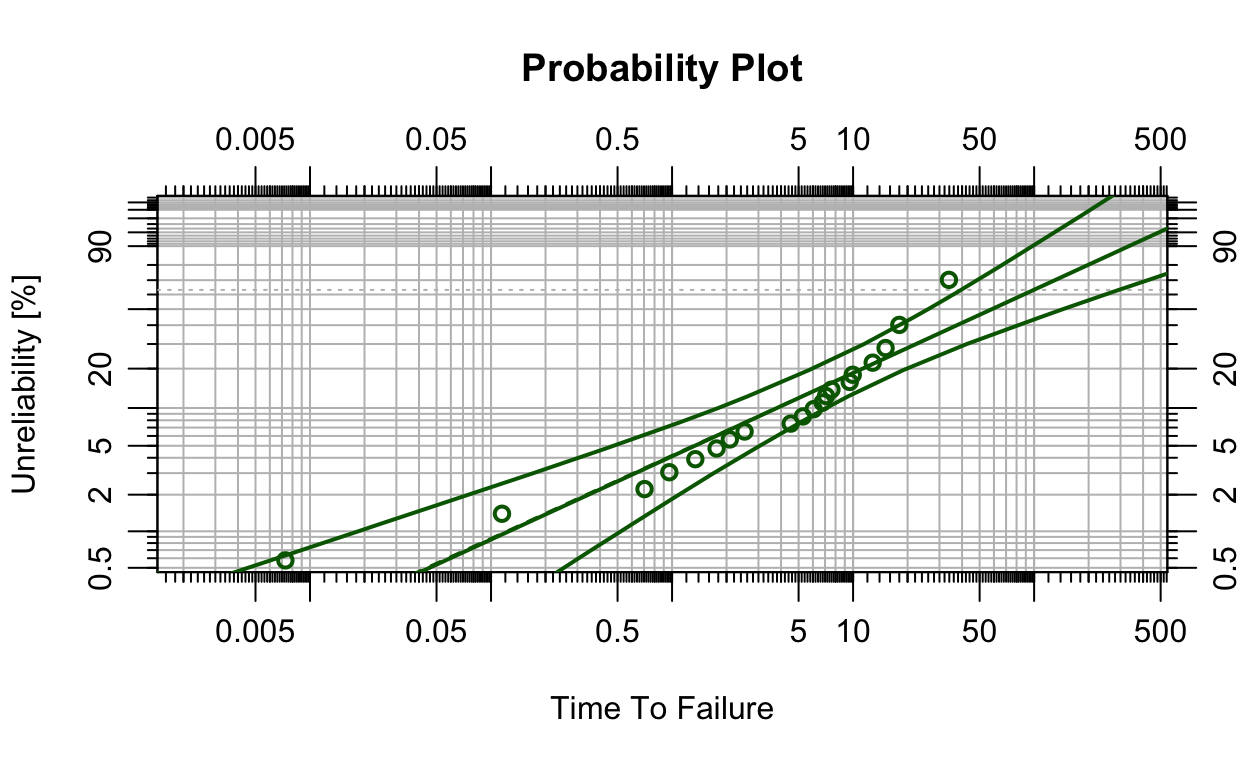
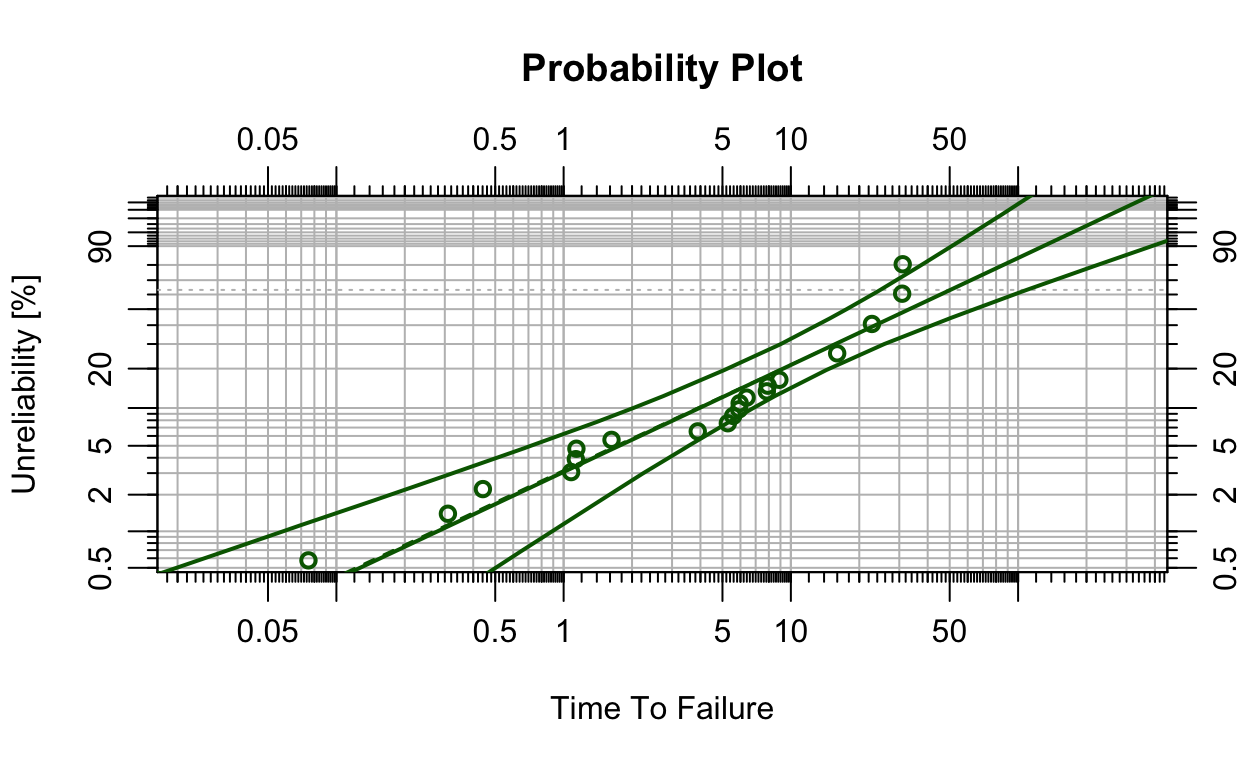
Fix bug with questions

diff --git a/inst/learnr/WeibullR.learnr.html b/inst/learnr/WeibullR.learnr.html
@@ -356,8 +356,9 @@ fit&lt;-MLEw3p(failures, suspensions, bounds=TRUE, show=TRUE)</code></pre>
 <li>Look random (Beta of 1)</li>
 </ul>
 <p>To see this behavior graphically, first create some Weibull data representing 3 different failure modes.</p>
-<pre class="r"><code>data &lt;- data.frame(
-  time = c(rweibull(5, 0.5, 10), rweibull(10, 1, 10), rweibull(5, 2, 10), rweibull(100, 2, 10)),
+<pre class="r"><code>set.seed(123)
+data &lt;- data.frame(
+  time = c(rweibull(5, 0.5, 20), rweibull(10, 1, 10), rweibull(5, 2, 5), rweibull(100, 2, 10)),
   event = c(rep(1, 20), rep(0, 100)),
   failure_mode = c(rep(&quot;A&quot;, 5), rep(&quot;B&quot;, 10), rep(&quot;C&quot;, 5), rep(&quot;&quot;, 100))
   )</code></pre>
@@ -427,6 +428,7 @@ plot_contour(list(obj1, obj2, obj3), CL=0.9)</code></pre>
 <script>if (Tutorial.triggerMathJax) Tutorial.triggerMathJax()</script>
 </div>
 </div>
+<p><strong>Challenge:</strong> rerun the competing failure mode example with a different number in the <code>set.seed</code> function and see if the same results hold true.</p>
 </div>
 <div id="section-wrapping-up" class="section level2">
 <h2>Wrapping Up</h2>
@@ -476,17 +478,17 @@ output$distPlot <- renderPlot({
 </script>
  
 <script type="application/shiny-prerendered" data-context="server">
-learnr:::question_prerendered_chunk(structure(list(type = "learnr_radio", label = "beta", question = structure("Which beta below indicates a wear out failure mode?", html = TRUE, class = c("html", 
-"character")), answers = list(structure(list(id = "lnr_ans_f183ed7", 
+learnr:::question_prerendered_chunk(structure(list(type = "learnr_radio", label = "beta", question = structure("Which beta below may indicate a wear out failure mode?", html = TRUE, class = c("html", 
+"character")), answers = list(structure(list(id = "lnr_ans_c975f4a", 
     option = "1", value = "1", label = structure("1", html = TRUE, class = c("html", 
     "character")), correct = FALSE, message = NULL, type = "literal"), class = c("tutorial_question_answer", 
-"tutorial_quiz_answer")), structure(list(id = "lnr_ans_8e2c89d", 
+"tutorial_quiz_answer")), structure(list(id = "lnr_ans_c822e42", 
     option = "0.5", value = "0.5", label = structure("0.5", html = TRUE, class = c("html", 
     "character")), correct = FALSE, message = NULL, type = "literal"), class = c("tutorial_question_answer", 
-"tutorial_quiz_answer")), structure(list(id = "lnr_ans_a6d81bc", 
+"tutorial_quiz_answer")), structure(list(id = "lnr_ans_ee82682", 
     option = "2", value = "2", label = structure("2", html = TRUE, class = c("html", 
     "character")), correct = TRUE, message = NULL, type = "literal"), class = c("tutorial_question_answer", 
-"tutorial_quiz_answer")), structure(list(id = "lnr_ans_7f28ff3", 
+"tutorial_quiz_answer")), structure(list(id = "lnr_ans_583e128", 
     option = "0", value = "0", label = structure("0", html = TRUE, class = c("html", 
     "character")), correct = FALSE, message = NULL, type = "literal"), class = c("tutorial_question_answer", 
 "tutorial_quiz_answer"))), button_labels = list(submit = structure("<span data-i18n=\"button.questionsubmit\">Submit Answer<\u002fspan>", html = TRUE, class = c("html", 
@@ -496,23 +498,23 @@ learnr:::question_prerendered_chunk(structure(list(type = "learnr_radio", label 
 "character")), incorrect = structure("Incorrect", html = TRUE, class = c("html", 
 "character")), message = NULL, post_message = NULL), ids = list(
     answer = "beta-answer", question = "beta"), loading = NULL, 
-    random_answer_order = TRUE, allow_retry = FALSE, seed = 1391050155.85224, 
+    random_answer_order = TRUE, allow_retry = FALSE, seed = 888752455.586142, 
     options = list()), class = c("learnr_radio", "tutorial_question"
 )), session = session)
 </script>
  
 <script type="application/shiny-prerendered" data-context="server">
-learnr:::question_prerendered_chunk(structure(list(type = "learnr_radio", label = "eta", question = structure("What does eta represent?", html = TRUE, class = c("html", 
-"character")), answers = list(structure(list(id = "lnr_ans_15f029c", 
+learnr:::question_prerendered_chunk(structure(list(type = "learnr_radio", label = "eta", question = structure("What does the parameter eta represent?", html = TRUE, class = c("html", 
+"character")), answers = list(structure(list(id = "lnr_ans_58b13c8", 
     option = "shape parameter", value = "shape parameter", label = structure("shape parameter", html = TRUE, class = c("html", 
     "character")), correct = FALSE, message = NULL, type = "literal"), class = c("tutorial_question_answer", 
-"tutorial_quiz_answer")), structure(list(id = "lnr_ans_95edb66", 
+"tutorial_quiz_answer")), structure(list(id = "lnr_ans_bb7dac5", 
     option = "scale parameter", value = "scale parameter", label = structure("scale parameter", html = TRUE, class = c("html", 
     "character")), correct = TRUE, message = NULL, type = "literal"), class = c("tutorial_question_answer", 
-"tutorial_quiz_answer")), structure(list(id = "lnr_ans_37474dc", 
+"tutorial_quiz_answer")), structure(list(id = "lnr_ans_97c043a", 
     option = "failure rate", value = "failure rate", label = structure("failure rate", html = TRUE, class = c("html", 
     "character")), correct = FALSE, message = NULL, type = "literal"), class = c("tutorial_question_answer", 
-"tutorial_quiz_answer")), structure(list(id = "lnr_ans_50c4748", 
+"tutorial_quiz_answer")), structure(list(id = "lnr_ans_528685d", 
     option = "mean time between failures", value = "mean time between failures", 
     label = structure("mean time between failures", html = TRUE, class = c("html", 
     "character")), correct = FALSE, message = NULL, type = "literal"), class = c("tutorial_question_answer", 
@@ -523,7 +525,7 @@ learnr:::question_prerendered_chunk(structure(list(type = "learnr_radio", label 
 "character")), incorrect = structure("Incorrect", html = TRUE, class = c("html", 
 "character")), message = NULL, post_message = NULL), ids = list(
     answer = "eta-answer", question = "eta"), loading = NULL, 
-    random_answer_order = TRUE, allow_retry = FALSE, seed = 1147847053.96549, 
+    random_answer_order = TRUE, allow_retry = FALSE, seed = 689004658.179157, 
     options = list()), class = c("learnr_radio", "tutorial_question"
 )), session = session)
 </script>
@@ -545,16 +547,16 @@ output$cummPlot2 <- renderPlot({
 <script type="application/shiny-prerendered" data-context="server">
 learnr:::question_prerendered_chunk(structure(list(type = "learnr_radio", label = "unreliability", 
     question = structure("What is the approximate unreliability at time 100?", html = TRUE, class = c("html", 
-    "character")), answers = list(structure(list(id = "lnr_ans_e84f6ae", 
+    "character")), answers = list(structure(list(id = "lnr_ans_253a381", 
         option = "50%", value = "50%", label = structure("50%", html = TRUE, class = c("html", 
         "character")), correct = FALSE, message = NULL, type = "literal"), class = c("tutorial_question_answer", 
-    "tutorial_quiz_answer")), structure(list(id = "lnr_ans_9827f31", 
+    "tutorial_quiz_answer")), structure(list(id = "lnr_ans_626541b", 
         option = "20%", value = "20%", label = structure("20%", html = TRUE, class = c("html", 
         "character")), correct = FALSE, message = NULL, type = "literal"), class = c("tutorial_question_answer", 
-    "tutorial_quiz_answer")), structure(list(id = "lnr_ans_62d115", 
+    "tutorial_quiz_answer")), structure(list(id = "lnr_ans_afad50a", 
         option = "75%", value = "75%", label = structure("75%", html = TRUE, class = c("html", 
         "character")), correct = FALSE, message = NULL, type = "literal"), class = c("tutorial_question_answer", 
-    "tutorial_quiz_answer")), structure(list(id = "lnr_ans_7d9a44d", 
+    "tutorial_quiz_answer")), structure(list(id = "lnr_ans_3a86ca6", 
         option = "90%", value = "90%", label = structure("90%", html = TRUE, class = c("html", 
         "character")), correct = TRUE, message = NULL, type = "literal"), class = c("tutorial_question_answer", 
     "tutorial_quiz_answer"))), button_labels = list(submit = structure("<span data-i18n=\"button.questionsubmit\">Submit Answer<\u002fspan>", html = TRUE, class = c("html", 
@@ -565,23 +567,23 @@ learnr:::question_prerendered_chunk(structure(list(type = "learnr_radio", label 
     "character")), message = NULL, post_message = NULL), ids = list(
         answer = "unreliability-answer", question = "unreliability"), 
     loading = NULL, random_answer_order = TRUE, allow_retry = FALSE, 
-    seed = 503201316.765679, options = list()), class = c("learnr_radio", 
+    seed = 1691182869.71248, options = list()), class = c("learnr_radio", 
 "tutorial_question")), session = session)
 </script>
  
 <script type="application/shiny-prerendered" data-context="server">
-learnr:::question_prerendered_chunk(structure(list(type = "learnr_radio", label = "b50", question = structure("What is the approximate P50 life (the time at which 50% of the machines are expected to fail?", html = TRUE, class = c("html", 
-"character")), answers = list(structure(list(id = "lnr_ans_bd1ee87", 
+learnr:::question_prerendered_chunk(structure(list(type = "learnr_radio", label = "b50", question = structure("What is the approximate P50 life (the time at which 50% of the machines are expected to fail?)", html = TRUE, class = c("html", 
+"character")), answers = list(structure(list(id = "lnr_ans_dbd5a09", 
     option = "70", value = "70", label = structure("70", html = TRUE, class = c("html", 
     "character")), correct = TRUE, message = NULL, type = "literal"), class = c("tutorial_question_answer", 
-"tutorial_quiz_answer")), structure(list(id = "lnr_ans_df31074", 
+"tutorial_quiz_answer")), structure(list(id = "lnr_ans_f307290", 
     option = "50", value = "50", label = structure("50", html = TRUE, class = c("html", 
     "character")), correct = FALSE, message = NULL, type = "literal"), class = c("tutorial_question_answer", 
-"tutorial_quiz_answer")), structure(list(id = "lnr_ans_19c0a2a", 
+"tutorial_quiz_answer")), structure(list(id = "lnr_ans_115c036", 
     option = "100", value = "100", label = structure("100", html = TRUE, class = c("html", 
     "character")), correct = FALSE, message = NULL, type = "literal"), class = c("tutorial_question_answer", 
-"tutorial_quiz_answer")), structure(list(id = "lnr_ans_7a06a7a", 
-    option = "50", value = "50", label = structure("50", html = TRUE, class = c("html", 
+"tutorial_quiz_answer")), structure(list(id = "lnr_ans_41772f6", 
+    option = "90", value = "90", label = structure("90", html = TRUE, class = c("html", 
     "character")), correct = FALSE, message = NULL, type = "literal"), class = c("tutorial_question_answer", 
 "tutorial_quiz_answer"))), button_labels = list(submit = structure("<span data-i18n=\"button.questionsubmit\">Submit Answer<\u002fspan>", html = TRUE, class = c("html", 
 "character")), try_again = structure("<span data-i18n=\"button.questiontryagain\">Try Again<\u002fspan>", html = TRUE, class = c("html", 
@@ -590,23 +592,23 @@ learnr:::question_prerendered_chunk(structure(list(type = "learnr_radio", label 
 "character")), incorrect = structure("Incorrect", html = TRUE, class = c("html", 
 "character")), message = NULL, post_message = NULL), ids = list(
     answer = "b50-answer", question = "b50"), loading = NULL, 
-    random_answer_order = TRUE, allow_retry = FALSE, seed = 370478651.827482, 
+    random_answer_order = TRUE, allow_retry = FALSE, seed = 70538113.4671531, 
     options = list()), class = c("learnr_radio", "tutorial_question"
 )), session = session)
 </script>
  
 <script type="application/shiny-prerendered" data-context="server">
 learnr:::question_prerendered_chunk(structure(list(type = "learnr_radio", label = "qty", question = structure("In the interval censored example, how many units are in the group of suspensions that did not fail?", html = TRUE, class = c("html", 
-"character")), answers = list(structure(list(id = "lnr_ans_8a26cb", 
+"character")), answers = list(structure(list(id = "lnr_ans_b1ba201", 
     option = "73", value = "73", label = structure("73", html = TRUE, class = c("html", 
     "character")), correct = TRUE, message = NULL, type = "literal"), class = c("tutorial_question_answer", 
-"tutorial_quiz_answer")), structure(list(id = "lnr_ans_d5735b9", 
+"tutorial_quiz_answer")), structure(list(id = "lnr_ans_62e3b43", 
     option = "17", value = "17", label = structure("17", html = TRUE, class = c("html", 
     "character")), correct = FALSE, message = NULL, type = "literal"), class = c("tutorial_question_answer", 
-"tutorial_quiz_answer")), structure(list(id = "lnr_ans_d37f15", 
+"tutorial_quiz_answer")), structure(list(id = "lnr_ans_f7fe682", 
     option = "94", value = "94", label = structure("94", html = TRUE, class = c("html", 
     "character")), correct = FALSE, message = NULL, type = "literal"), class = c("tutorial_question_answer", 
-"tutorial_quiz_answer")), structure(list(id = "lnr_ans_1c07848", 
+"tutorial_quiz_answer")), structure(list(id = "lnr_ans_e4b1775", 
     option = "63.48", value = "63.48", label = structure("63.48", html = TRUE, class = c("html", 
     "character")), correct = FALSE, message = NULL, type = "literal"), class = c("tutorial_question_answer", 
 "tutorial_quiz_answer"))), button_labels = list(submit = structure("<span data-i18n=\"button.questionsubmit\">Submit Answer<\u002fspan>", html = TRUE, class = c("html", 
@@ -616,7 +618,7 @@ learnr:::question_prerendered_chunk(structure(list(type = "learnr_radio", label 
 "character")), incorrect = structure("Incorrect", html = TRUE, class = c("html", 
 "character")), message = NULL, post_message = NULL), ids = list(
     answer = "qty-answer", question = "qty"), loading = NULL, 
-    random_answer_order = TRUE, allow_retry = FALSE, seed = 1725833035.69635, 
+    random_answer_order = TRUE, allow_retry = FALSE, seed = 1445938745.82668, 
     options = list()), class = c("learnr_radio", "tutorial_question"
 )), session = session)
 </script>
@@ -624,16 +626,16 @@ learnr:::question_prerendered_chunk(structure(list(type = "learnr_radio", label 
 <script type="application/shiny-prerendered" data-context="server">
 learnr:::question_prerendered_chunk(structure(list(type = "learnr_radio", label = "failure-count", 
     question = structure("In the interval censored example, how many total failures occurred?", html = TRUE, class = c("html", 
-    "character")), answers = list(structure(list(id = "lnr_ans_2f8d65", 
+    "character")), answers = list(structure(list(id = "lnr_ans_af4aa11", 
         option = "73", value = "73", label = structure("73", html = TRUE, class = c("html", 
         "character")), correct = FALSE, message = NULL, type = "literal"), class = c("tutorial_question_answer", 
-    "tutorial_quiz_answer")), structure(list(id = "lnr_ans_ee419fe", 
+    "tutorial_quiz_answer")), structure(list(id = "lnr_ans_c7dc3dd", 
         option = "17", value = "17", label = structure("17", html = TRUE, class = c("html", 
         "character")), correct = FALSE, message = NULL, type = "literal"), class = c("tutorial_question_answer", 
-    "tutorial_quiz_answer")), structure(list(id = "lnr_ans_bdd8e7c", 
+    "tutorial_quiz_answer")), structure(list(id = "lnr_ans_71e2901", 
         option = "94", value = "94", label = structure("94", html = TRUE, class = c("html", 
         "character")), correct = TRUE, message = NULL, type = "literal"), class = c("tutorial_question_answer", 
-    "tutorial_quiz_answer")), structure(list(id = "lnr_ans_ad90360", 
+    "tutorial_quiz_answer")), structure(list(id = "lnr_ans_931a886", 
         option = "63.48", value = "63.48", label = structure("63.48", html = TRUE, class = c("html", 
         "character")), correct = FALSE, message = NULL, type = "literal"), class = c("tutorial_question_answer", 
     "tutorial_quiz_answer"))), button_labels = list(submit = structure("<span data-i18n=\"button.questionsubmit\">Submit Answer<\u002fspan>", html = TRUE, class = c("html", 
@@ -644,7 +646,7 @@ learnr:::question_prerendered_chunk(structure(list(type = "learnr_radio", label 
     "character")), message = NULL, post_message = NULL), ids = list(
         answer = "failure-count-answer", question = "failure-count"), 
     loading = NULL, random_answer_order = TRUE, allow_retry = FALSE, 
-    seed = 123232165.442616, options = list()), class = c("learnr_radio", 
+    seed = 1605991488.25215, options = list()), class = c("learnr_radio", 
 "tutorial_question")), session = session)
 </script>
  
